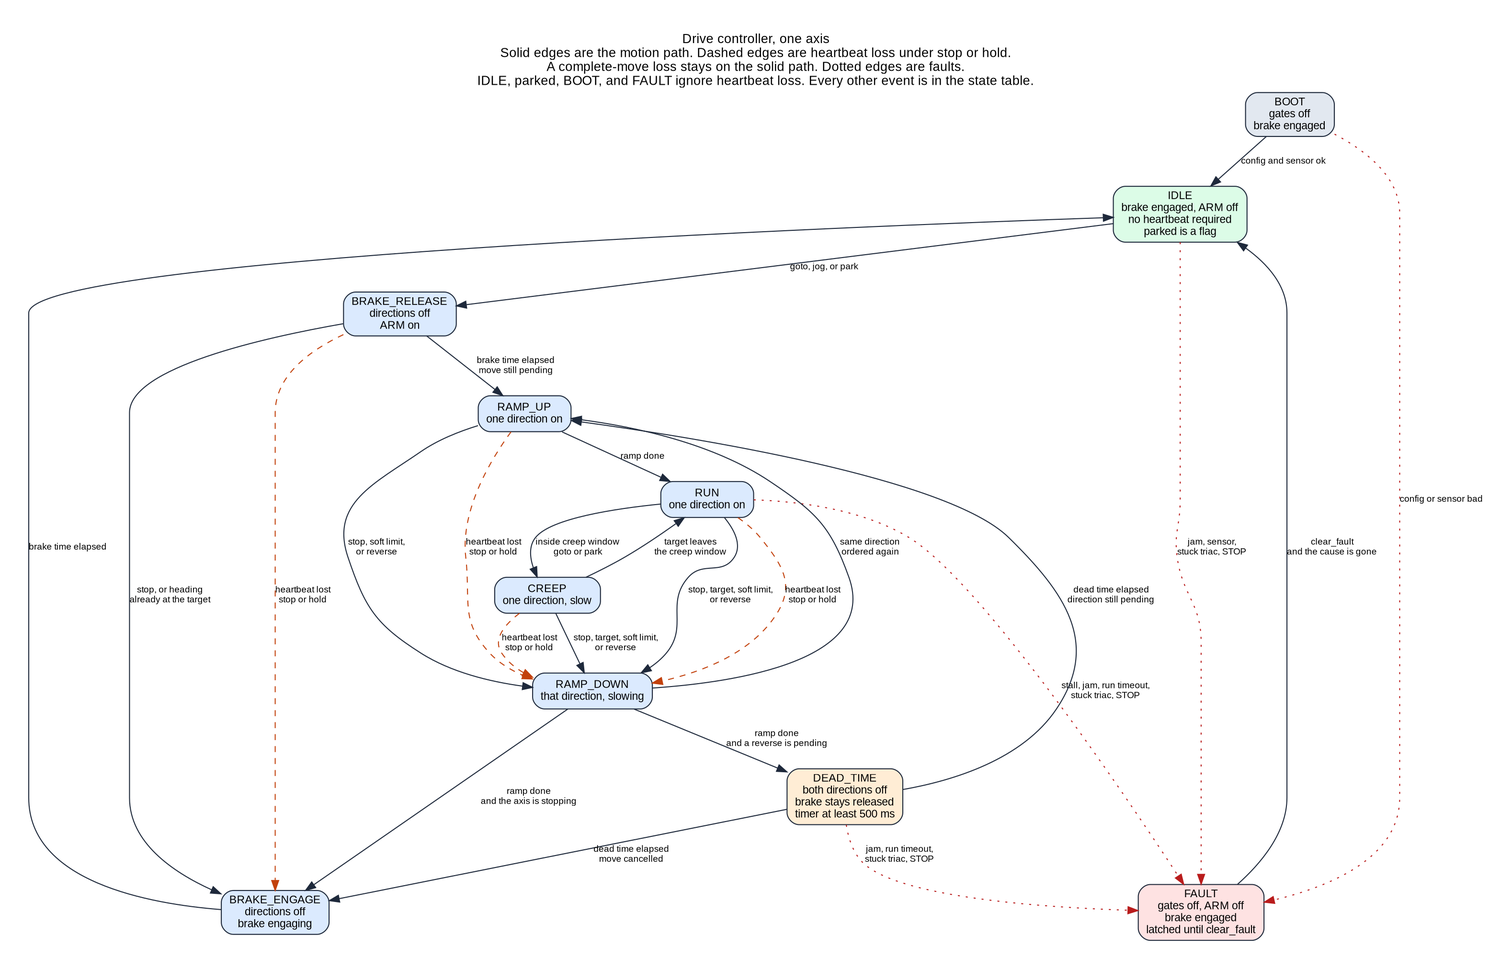
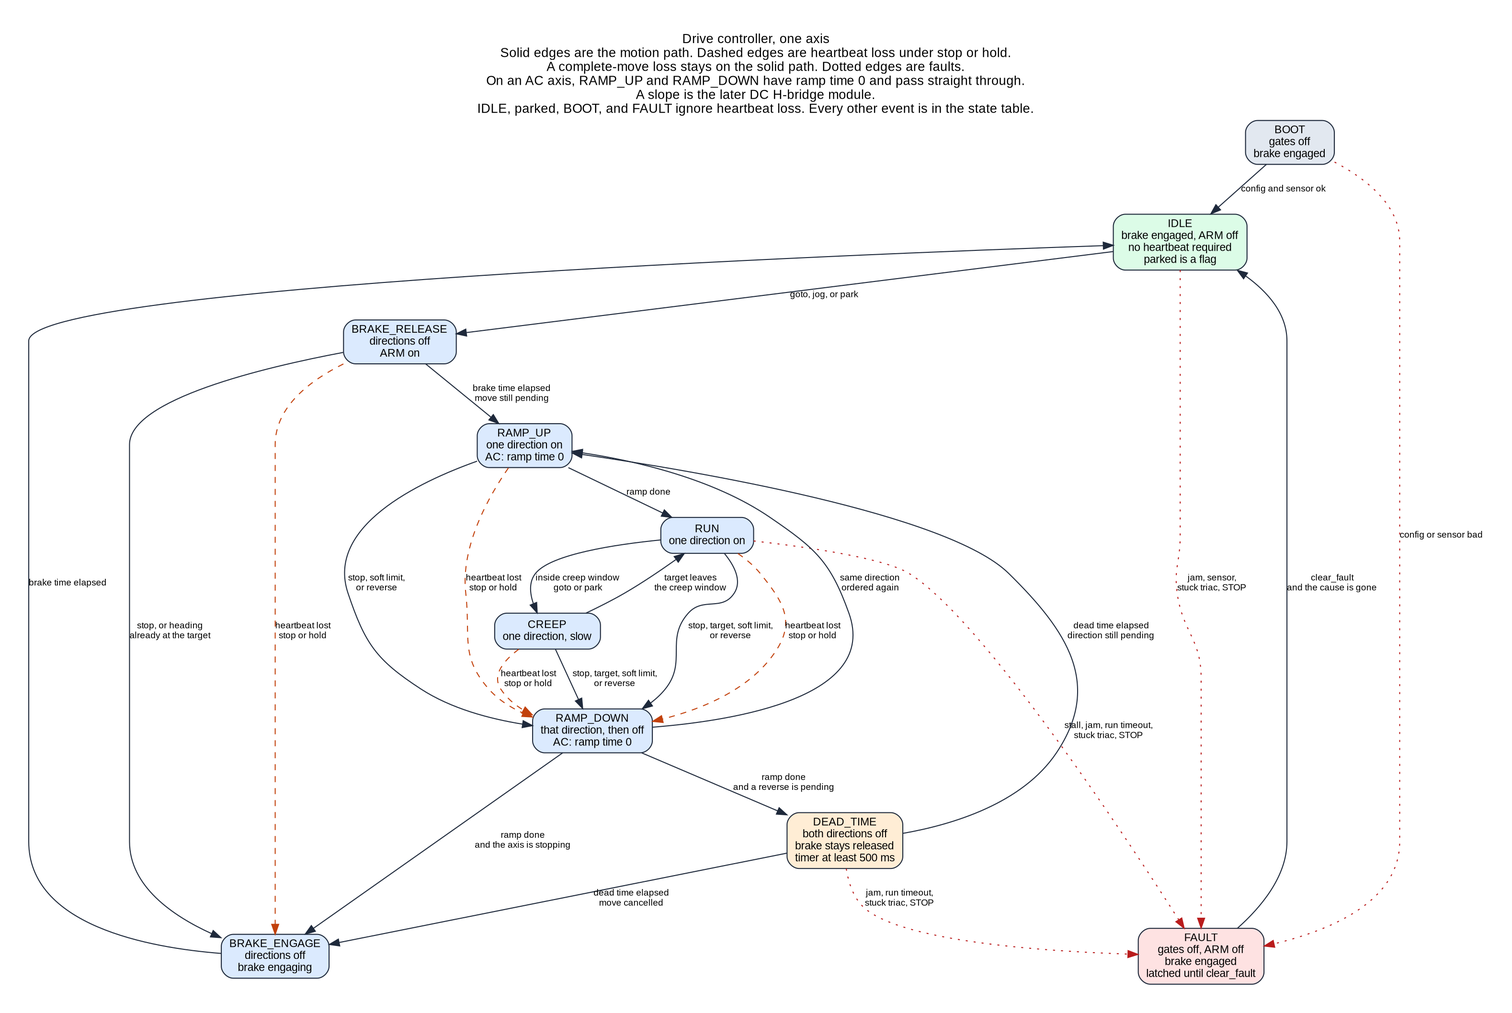
Record the owner's Drive and Station decisions.
Names are confirmed. An AC axis is on or off, so the ramp states
pass through with ramp time 0. K1 stays, one relay, because it is
the only way to clear a shorted triac. TR1 stays as drawn. The
heartbeat, the residual hardware, and the MCU part stay open.

diff --git a/docs/design/drive-controller.md b/docs/design/drive-controller.md
@@ -6,18 +6,18 @@ The board gains a second MCU, the Drive. It is the virtual rotator: a short comm
 
 The principle for the split is: deadlines live in the Drive.
 
+Owner decisions recorded against the first draft: the names Drive and Station; an AC axis is on or off, so its ramp time is 0; K1 stays, one ARM relay on the first board, because it is the only way to take a shorted triac off the bus; TR1, the ZMCT103C, stays as drawn. The heartbeat default, the residual-hardware choice, and the Drive MCU part are still open. Section 8 is that list.
+
 ## 1. Names
 
-Recommendation: **Drive** for the new MCU and **Station** for the STM32F407.
+**Drive** is the new MCU. **Station** is the STM32F407.
 
 | Name | Chip | The word covers |
 | --- | --- | --- |
 | Drive | the new MCU | motors, sensing, brakes, and every deadline |
 | Station | STM32F407VGT6, the chip in ADR 0014 | web UI, USB, Ethernet, operator protocols, logging, schedules, multi-rotator, updates |
 
-The product is already called the rotator controller. A second chip also called a controller makes the link, the faults, and the two bootloaders ambiguous. Drive is the chip that fires the triacs, times the reversal, and still holds the limits when the Station is down. Station is the chip that faces the shack. "Interlock MCU" would hide the ramps, the position loop, and the config store.
-
-Q1 records that the names are the owner's to confirm.
+The product is already called the rotator controller. Drive is the chip that fires the triacs, times the reversal, and still holds the limits when the Station is down. Station is the chip that faces the shack.
 
 ## 2. Who owns what
 
@@ -27,7 +27,7 @@ Deadlines live in the Drive. A deadline here means a time after which the hardwa
 | --- | --- | --- |
 | CW, CCW, and brake triac gates; ARM relay | owns | |
 | Reversal dead time | owns | |
-| Ramp up, ramp down, creep near the target | owns | |
+| Ramp states. AC ramp time is 0, so the axis is on or off. A real slope is the later DC H-bridge module (ADR 0018). | owns the states | |
 | Soft limits and the overlap choice | owns | displays |
 | Stall, jam, run timeout | owns | displays and logs |
 | Position: pot ADC, filtering, calibration, pulse and quadrature inputs | owns | displays |
@@ -117,7 +117,7 @@ Proposed opcodes:
 | SET_LIMITS | `0x06` | axis, minimum, maximum, overlap flag |
 | SET_CALIBRATION | `0x07` | axis, sensor kind, end readings, end headings. Byte layout TBD. |
 | SET_PRESET | `0x08` | axis, park heading |
-| SET_MOTION | `0x09` | ramp time, creep window, target window, dead time, brake times, stall, jam, run timeout, heartbeat, loss policy |
+| SET_MOTION | `0x09` | ramp time (0 on an AC axis), creep window, target window, dead time, brake times, stall, jam, run timeout, heartbeat, loss policy |
 | READ_STATUS | `0x0A` | empty. The ACK carries the status record. |
 | CLEAR_FAULT | `0x0B` | axis mask |
 | ENTER_BOOTLOADER | `0x0C` | a 32-bit magic. The constant is TBD, so a damaged payload cannot enter the bootloader. |
@@ -127,7 +127,7 @@ Proposed opcodes:
 
 NACK reasons: `BAD_SEQ`, `BAD_STATE`, `HOST_LOST`, `LIMIT`, `BAD_CONFIG`, `FAULT`, `AXIS_ABSENT`, `BAD_MAGIC`.
 
-Assumption: headings are hundredths of a degree. Speed is permille of full rotor speed. On an on/off triac profile, a permille above the creep threshold is full on, and the ramp time may be 0. The states in section 4 still run.
+An AC axis is on or off. Its ramp time is 0, and CREEP commands the same full-on direction gate as RUN. Permille speed and a non-zero ramp belong to the later DC H-bridge module. The states in section 4 still run, and on AC the ramp states pass straight through. Heading unit and the permille encoding are still open (section 8).
 
 Axis bit 0 is azimuth. Bit 1 is elevation.
 
@@ -172,7 +172,7 @@ The deadline arms when a move is accepted and disarms on entry to IDLE. An idle 
 
 | Policy | Result of a missed heartbeat |
 | --- | --- |
-| stop | Ramp down if a direction is on, engage the brake, enter IDLE, set `host_lost`, and drop the goal. |
+| stop | Leave the direction through `RAMP_DOWN` (immediate when the ramp time is 0), engage the brake, enter IDLE, set `host_lost`, and drop the goal. |
 | hold | The same motion as stop. The abandoned heading stays in `held_target` for the Station to display. The axis does not continue. |
 | complete | The goto or park already underway runs to IDLE. New commands wait for `heartbeat_ok`. A jog has no target, so a jog takes the stop path. |
 
@@ -195,17 +195,17 @@ Brake gate high means the solenoid releases the wedge, matching DESIGN-NOTES. Ga
 
 CW and CCW are never both on. A tick that would turn both on latches `BOTH_ON` and enters FAULT.
 
-Assumption: an on/off triac profile may set the ramp time to 0. `RAMP_UP` and `RAMP_DOWN` are still entered, and `ramp_done` follows on the next tick. Phase-angle control uses the same states with a non-zero ramp. Which profile the AC rotor uses is Q5.
+An AC axis has ramp time 0. `RAMP_UP` and `RAMP_DOWN` are still entered, and `ramp_done` follows on the next tick, with the direction gate full on and then full off. A slope, and a creep speed below full on, are the later DC H-bridge module.
 
 Dead time floor: 500 ms, the value already compiled in as `reversal_dead_time_ms` and `MotionConfig::dead_time_ms`. Changing the pending direction restarts the full interval. The interval is never shortened. STOP during `DEAD_TIME` waits the interval out, because a triac can stay latched until current zero.
 
-Assumption, and Q6: during a reversal the brake stays released through `DEAD_TIME`, and it engages on the way to IDLE. Brake release and brake engage times are config fields. Their values are TBD. The 50 ms arm time and 150 ms stop time in the current host test are code defaults, not measured solenoid times.
+Assumption, still open: during a reversal the brake stays released through `DEAD_TIME`, and it engages on the way to IDLE. Brake release and brake engage times are config fields. Their values are TBD. The 50 ms arm time and 150 ms stop time in the current host test are code defaults, not measured solenoid times.
 
 Parked is a flag on IDLE. It is set when a park goal reaches IDLE inside the park window.
 
 Overlap is chosen when a goto or park is accepted, from the heading, the target, the soft limits, and the overlap flag. The machine stores the choice as the direction.
 
-![One axis of the Drive. Solid edges are the motion path. Dashed edges are heartbeat loss under stop or hold. A complete-move loss stays on the solid path. Dotted edges are faults.](img/drive-controller-fsm.png)
+![One axis of the Drive. Solid edges are the motion path. Dashed edges are heartbeat loss under stop or hold. A complete-move loss stays on the solid path. Dotted edges are faults. On AC, RAMP_UP and RAMP_DOWN have ramp time 0.](img/drive-controller-fsm.png)
 
 The drawing is the motion path. The tables below are the full event list. Source for the figure: `docs/design/img/src/drive-controller-fsm.dot`.
 
@@ -213,7 +213,7 @@ These fields are context, not states: the goal (none, goto, jog, park), the dire
 
 A row is one accepted event. A duplicate SEQ never reaches the table. Command rows still say what happens when `host_lost` is already set, so that edge is visible.
 
-`stop_input` faults every axis. A jam on the single shared current transformer faults every axis whose gate is on. If no gate is on, it faults both axes, because the current was not commanded. That second sentence assumes one transformer for the whole bus; Q17 asks about a per-axis transformer. Every other event is per axis. A stuck triac is the triac of that axis.
+`stop_input` faults every axis. TR1 stays one current transformer on the shared hot. A jam on that reading faults every axis whose gate is on. If no gate is on, it faults both axes, because the current was not commanded. The 5 A rating against about 7.3 A motor-plus-brake, and saturation, stay open. Every other event is per axis. A stuck triac is the triac of that axis.
 
 Each state lists the same 23 events.
 
@@ -312,7 +312,7 @@ ARM on, brake releasing, directions off. Heartbeat armed.
 
 ### RAMP_UP
 
-One direction on, speed rising. With a ramp time of 0, `ramp_done` is the next tick.
+One direction on. On AC the ramp time is 0, so `ramp_done` is the next tick and the gate is already full on. A DC H-bridge module is what gives this state a slope.
 
 
 | Event | Result |
@@ -374,7 +374,7 @@ One direction at the commanded speed.
 
 ### CREEP
 
-One direction, slow, inside the creep window of a goto or a park.
+Inside the creep window of a goto or a park. On AC the gate stays full on, the same as RUN. A reduced creep speed is the later DC H-bridge module.
 
 
 | Event | Result |
@@ -405,7 +405,7 @@ One direction, slow, inside the creep window of a goto or a park.
 
 ### RAMP_DOWN
 
-Slowing the direction that was on. `ramp_done` starts dead time when a reverse is pending, and engages the brake when the axis is stopping.
+The direction that was on, then off. On AC the ramp time is 0, so `ramp_done` is the next tick. `ramp_done` starts dead time when a reverse is pending, and engages the brake when the axis is stopping.
 
 
 | Event | Result |
@@ -574,7 +574,7 @@ Without the optional limit inputs that is about 30 signals plus the SWD header. 
 
 The pot wiper is rotor return (ADR 0018). The Drive measures the two ends. The 60 Hz notch and the FIR described in the system overview run on the Drive. The firmware in the tree today implements the ideal end-voltage ratio only; the notch and the FIR are not written yet.
 
-Sensor kinds to pin now, from ADR 0008: dual-end pot, single-ended pot with an excitation GPIO, pulse or reed, and quadrature. The connector positions for the kinds the first cable does not use are TBD (Q11).
+Sensor kinds to pin now, from ADR 0008: dual-end pot, single-ended pot with an excitation GPIO, pulse or reed, and quadrature. The connector positions for the kinds the first cable does not use are TBD (section 8).
 
 ### What remains hardware on a reset
 
@@ -595,7 +595,7 @@ Recommendation: **ARM_OK only.** The direction network and the RC hold are the t
 
 The clamp itself (one AND, a FET that holds the driver gates down, or one gate per output) is part of the schematic change that follows acceptance. This note does not assign that glue a new C-number. The function to keep is the one U3 has today: `ARM_OK = ARM_EN AND nRESET`, fanned out so it can force every driver and the relay off.
 
-STOP_N stays on the TPS3823 `/MR`, as on the current sheet. While the button is held, the Drive is in reset, the FSM is not running, and the gates are off because `nRESET` is low. Releasing the button starts `BOOT`. A GPIO copy of STOP is optional (Q12) and is not the path that works while the core is held in reset.
+STOP_N stays on the TPS3823 `/MR`, as on the current sheet. While the button is held, the Drive is in reset, the FSM is not running, and the gates are off because `nRESET` is low. Releasing the button starts `BOOT`. A GPIO copy of STOP is optional (section 8). The path that works while the core is held in reset is `/MR`.
 
 ### Programming and update
 
@@ -623,15 +623,15 @@ The CCW hold is already open on the sheet this note was written against. `kicad-
 - R62 pin 1 is on `/CCW_GATE`. C61 pin 2 and R63 pin 2 are on `GNDPWR`.
 - C61 pin 1, both pins of D61, R62 pin 2, and R63 pin 1 appear on no net.
 
-This proposal removes that network. Repairing the discrete hold would be a different change (Q15).
+This proposal removes that network. Repairing the discrete hold would be a different change (section 8).
 
 Stays:
 
 - MOC3023 optos, triacs, gate resistors, and snubbers (ADR 0004).
 - Q2, Q3, and Q4, the 2N7002 LED switches, and their gate pulldowns.
-- K1, the ARM relay, Q1, and the flyback diode. Coil off, the rotator is dark.
+- K1, the ARM relay, one relay on the first board, plus Q1 and the flyback diode. Coil off, the rotator is dark. K1 stays because it is the only way to end a shorted-triac fault: stuck-on sense can see the short, and opening K1 takes that triac off the 26 VAC bus. Gate pulldowns and `nRESET` cannot open a triac that has failed short. The G5LE-1A4 5 A inductive rating against about 7.3 A motor-plus-brake overlap stays open, as already written in DESIGN-NOTES.
 - U1, TPS3823-33, LCSC C7719, with STOP_N on `/MR` and the WDI pulldown R41.
-- U14, U15, and U16 stuck-on sense; U17 zero-cross; TR1 and the `I_SENSE` bias and clamps.
+- U14, U15, and U16 stuck-on sense; U17 zero-cross; TR1, the Zeming ZMCT103C, and the `I_SENSE` bias and clamps. TR1 stays as drawn. Its 5 A rating against about 7.3 A motor-plus-brake, and saturation of the core, stay open.
 - Pot clamps, the SMAJ90CA parts, the fuse, and the MOV.
 - The F407, the ADuM4160, and the MagJack.
 
@@ -649,7 +649,7 @@ Pulldowns R50–R53 (100 kΩ on `AZ_CW_EN`, `AZ_CCW_EN`, `AZ_BRAKE_EN`, and `ARM
 | `BRK_GATE = AZ_BRAKE_EN AND ARM_OK`, high = release | `BRAKE_RELEASE` and the released states drive the brake pin, and only while `ARM_OK` is true. |
 | Watchdog, brownout, or `STOP_N` drops the brake gate and the wedge engages | Unchanged. The TPS3823 drops `nRESET`, which drops `ARM_OK`. |
 | 100 kΩ pulldowns on the four request pins | Pulldowns on the Drive outputs. |
-| ARM relay in series with the triac bus. Normal motion does not break load current in that contact. It opens on a fault. | Unchanged. `FAULT` and reset open it. |
+| ARM relay in series with the triac bus. Normal motion does not break load current in that contact. It opens on a fault. | K1 stays, one relay on the first board. It is the only way to end a shorted-triac fault. `FAULT` and reset open it. The 5 A versus about 7.3 A overlap rating stays open. |
 | Stuck-on sense: armed, that gate off, no pulse for 20 ms | `STUCK_TRIAC`, same 20 ms, then ARM off. |
 | WDI kicked faster than 0.9 s. R41 makes a floating WDI time out. | The Drive kicks WDI. The host heartbeat is the slower, separate deadline. |
 | Current `MotionController`: direction outputs off except in the two Running states, which are never active together | Kept, and applied to every state in the output table. |
@@ -668,7 +668,7 @@ The code in the tree uses a smaller state set. The later software change maps it
 
 `request_stop` today steps Fault straight to Idle. The proposal uses `clear_fault`, and only after the cause is gone.
 
-DESIGN-NOTES places D2, the SMAJ90CA, on `AC_BUS`. The 2026-10-17 netlist places D2 pin 2 on `AC_FUSED` and D2 pin 1 on `GNDPWR`. K1 pin 1 is on `AC_FUSED` and K1 pin 3 is on `AC_BUS`. This proposal does not move D2 (Q16).
+DESIGN-NOTES places D2, the SMAJ90CA, on `AC_BUS`. The 2026-10-17 netlist places D2 pin 2 on `AC_FUSED` and D2 pin 1 on `GNDPWR`. K1 pin 1 is on `AC_FUSED` and K1 pin 3 is on `AC_BUS`. This proposal does not move D2 (section 8).
 
 ## 7. Software
 
@@ -686,7 +686,7 @@ The 230 rows are the unit-test list: one host test per row. These scripts sit on
 
 - A reversal visits `RAMP_DOWN`, `DEAD_TIME`, and `RAMP_UP`. The dead-time timer is at least the configured floor. STOP during `DEAD_TIME` does not shorten it. Changing the pending direction restarts the full interval.
 - On every tick of that script, including the transition ticks, CW and CCW are never both commanded.
-- A ramp time of 0 still enters `RAMP_UP` and `RAMP_DOWN`.
+- An AC profile, ramp time 0, still enters `RAMP_UP` and `RAMP_DOWN` and leaves each on the next tick, with the gate full on and then full off.
 - A duplicate SEQ applies a GOTO once and does not restart the brake timer.
 - A SEQ other than `last_seq` or the next one is rejected, and the state is unchanged.
 - A dropped frame, retried with the same SEQ, applies once.
@@ -708,26 +708,26 @@ None of that code is in this change.
 
 ## 8. Open questions
 
-1. Confirm the names Drive and Station.
-2. Heartbeat default of 5 seconds, allowed 2–30, and default loss policy stop.
-3. A jog under the complete policy takes the stop path, because a jog has no target.
-4. A command on a healthy link counts as a heartbeat. After `host_lost`, only HEARTBEAT or READ_STATUS clears the flag.
-5. AC speed ramp: phase control, or a ramp time of 0 on the on/off triacs. The states cover both.
-6. Dead-time floor of 500 ms, brake released through the reversal, and brake-release and brake-engage times (values TBD).
-7. Residual hardware: ARM_OK only, or ARM_OK plus direction lockout. Proposed independent-watchdog period 100 ms, registers TBD.
-8. One ARM relay for both axes, or a contactor per axis, once elevation is populated.
-9. Confirm STM32G431RBT6 (128 KB flash, C431633). A larger-flash G4 has no C-number in this note. JLC assembly stock was not rechecked.
-10. Pot reference: the G4 VREFBUF (2.048 V, 2.5 V, or 2.95 V), or the separate filtered 3.3 V ADR 0018 left TBD.
-11. Which sense interfaces get connector pins on the first board, beyond the dual-end pot.
-12. STOP_N stays on `/MR`. Whether the Drive also gets a readable copy.
-13. Front-panel CW and CCW, if the headless panel of ADR 0006 is fitted: Drive inputs, so they become jog and stop events while the Station is busy.
-14. Field update: the STM32 ROM USART bootloader, with the Station driving BOOT0 and NRST, and the value of the `ENTER_BOOTLOADER` magic.
-15. The CCW hold on the current sheet is open (`/HOLD_CCW` is only U2 pin 9). This proposal deletes the network. A repair of the discrete hold would be a different change.
-16. D2, the SMAJ90CA: DESIGN-NOTES says `AC_BUS`; the 2026-10-17 netlist has pin 2 on `AC_FUSED`.
-17. One current transformer on the shared hot cannot tell azimuth current from elevation current. Per-axis transformers, or accept the summed reading. Saturation at motor-plus-brake current is still the open item in DESIGN-NOTES.
-18. Heading unit of 0.01° and speed in permille.
-19. Drive flash stores park, limits, calibration, ramps, and deadlines. The preset catalog and the parking schedules stay on the Station.
-20. Duty-cycle rest (the CDE 10% and Yaesu three-minute notes in the system overview). This machine enforces max run as `RUN_TIMEOUT` and leaves a minimum off time out until a preset needs it.
+Settled, and removed from this list: the names Drive and Station; AC axes on or off with ramp time 0; K1 stays, one relay on the first board; TR1 stays as drawn.
+
+1. Heartbeat default of 5 seconds, allowed 2–30, and default loss policy stop.
+2. A jog under the complete policy takes the stop path, because a jog has no target.
+3. A command on a healthy link counts as a heartbeat. After `host_lost`, only HEARTBEAT or READ_STATUS clears the flag.
+4. Dead-time floor of 500 ms, brake released through the reversal, and brake-release and brake-engage times (values TBD).
+5. Residual hardware: ARM_OK only (recommended), or ARM_OK plus direction lockout. Proposed independent-watchdog period 100 ms, registers TBD.
+6. K1 rating. The relay stays. The G5LE-1A4 5 A inductive rating against about 7.3 A motor-plus-brake overlap is still open, as in DESIGN-NOTES.
+7. Drive MCU. STM32G431RBT6, LQFP-64, LCSC C431633, is the recommendation. A larger-flash G4 has no C-number in this note. JLC assembly stock was not rechecked.
+8. Pot reference: the G4 VREFBUF (2.048 V, 2.5 V, or 2.95 V), or the separate filtered 3.3 V ADR 0018 left TBD.
+9. Which sense interfaces get connector pins on the first board, beyond the dual-end pot.
+10. STOP_N stays on `/MR`. Whether the Drive also gets a readable copy.
+11. Front-panel CW and CCW, if the headless panel of ADR 0006 is fitted: Drive inputs, so they become jog and stop events while the Station is busy.
+12. Field update: the STM32 ROM USART bootloader, with the Station driving BOOT0 and NRST, and the value of the `ENTER_BOOTLOADER` magic.
+13. The CCW hold on the current sheet is open (`/HOLD_CCW` is only U2 pin 9). This proposal deletes the network. A repair of the discrete hold would be a different change.
+14. D2, the SMAJ90CA, pending the owner's push. Section 6 still records the discrepancy already in this tree: DESIGN-NOTES says `AC_BUS`; the 2026-10-17 netlist has pin 2 on `AC_FUSED`. The local schematic, not yet pushed, places D2 after the fuse and before the relay. This tree is not edited to match until that push.
+15. TR1, the ZMCT103C, stays. Still open: the 5 A rating versus about 7.3 A motor-plus-brake, and saturation.
+16. Heading unit of 0.01° and speed in permille.
+17. Drive flash stores park, limits, calibration, ramps, and deadlines. The preset catalog and the parking schedules stay on the Station.
+18. Duty-cycle rest (the CDE 10% and Yaesu three-minute notes in the system overview). This machine enforces max run as `RUN_TIMEOUT` and leaves a minimum off time out until a preset needs it.
 
 ## Developer
 

diff --git a/docs/decisions/0020-drive-controller.md b/docs/decisions/0020-drive-controller.md
@@ -11,17 +11,21 @@ The long form, the state diagram, and the state-by-event tables are in `docs/des
 
 ## Decision
 
-Add a second MCU, the Drive. The STM32F407 is the Station.
+Add a second MCU, the Drive. The STM32F407 is the Station. Those names are confirmed.
 
-Deadlines live in the Drive: triac and brake gates, the ARM relay, reversal dead time, ramps, soft limits, stall, jam, run timeout, position sensing, and the heartbeat. The Drive stores its own copy of the limits, calibration, park heading, and loss policy, and it follows that copy while the Station is off. The Station keeps the web UI, USB, Ethernet, GS-232, Hamlib, Easycom, the operator catalog, logging, schedules, multi-rotator, and updates for both chips.
+Deadlines live in the Drive: triac and brake gates, the ARM relay, reversal dead time, the ramp states, soft limits, stall, jam, run timeout, position sensing, and the heartbeat. An AC axis is on or off. Its ramp time is 0, so `RAMP_UP` and `RAMP_DOWN` pass straight through. A real slope belongs to the later DC H-bridge module (ADR 0018). The Drive stores its own copy of the limits, calibration, park heading, and loss policy, and it follows that copy while the Station is off. The Station keeps the web UI, USB, Ethernet, GS-232, Hamlib, Easycom, the operator catalog, logging, schedules, multi-rotator, and updates for both chips.
 
 Commands from the Station are targets on a 3.3 V UART. Both chips share the rotor-return ground (ADR 0018), so the link has no isolator. A late, duplicate, or lost command leaves the Drive on the last accepted target.
 
-The host heartbeat is several seconds, with a per-rotor loss policy of stop, hold, or complete the move. Idle and parked axes have no heartbeat deadline. The per-axis machine, including dead time, limits, ramp, stall, and heartbeat, is the diagram and the tables in the design note.
+The host heartbeat is several seconds, with a per-rotor loss policy of stop, hold, or complete the move. Idle and parked axes have no heartbeat deadline. The timeout number and the default policy are still open. The per-axis machine, including dead time, limits, the ramp states, stall, and heartbeat, is the diagram and the tables in the design note.
 
-Candidate part: STM32G431RBT6, LQFP-64, LCSC C431633, checked on the LCSC page on 2026-10-17. JLC assembly stock was not rechecked.
+K1, the ARM relay, stays: one relay on the first board. It is the only way to end a shorted-triac fault. Gate pulldowns cannot open a triac that has failed short. The 5 A inductive rating against about 7.3 A motor-plus-brake overlap stays open.
 
-Residual hardware, recommended: `ARM_OK` (`ARM_EN AND nRESET` from the TPS3823) forces the triac-driver gates and the relay off while the Drive is in reset, plus pulldowns, plus the brake defaulting to engaged. Direction exclusion and the 500 ms gap move into the Drive state machine. The direction-lockout option is recorded in the design note if that both-on window is unacceptable.
+TR1, the ZMCT103C, stays as drawn. Its 5 A rating against that same overlap current, and saturation, stay open.
+
+Candidate part, not yet confirmed: STM32G431RBT6, LQFP-64, LCSC C431633, checked on the LCSC page on 2026-10-17. JLC assembly stock was not rechecked.
+
+Residual hardware, recommended and still open: `ARM_OK` (`ARM_EN AND nRESET` from the TPS3823) forces the triac-driver gates and the relay off while the Drive is in reset, plus pulldowns, plus the brake defaulting to engaged. Direction exclusion and the 500 ms gap move into the Drive state machine. The direction-lockout option is recorded in the design note if that both-on window is unacceptable.
 
 When this record is accepted, it replaces the combinatorial-gate and RC-hold parts of ADR 0005. ADR 0005 stays Accepted until then. The ARM relay, brake-defaults-engaged, stuck-on sensing, and a dead time of at least 500 ms remain. The dead time is enforced by the Drive.
 
